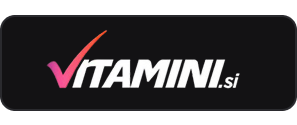
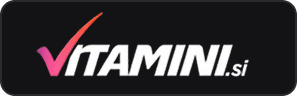
Fix partner card layout: use image aspect ratio, remove redundant card styling
Both PNGs are now 297x96 and render as-is since they include their own
background and rounded corners.

diff --git a/components/PartnerStrip.tsx b/components/PartnerStrip.tsx
@@ -119,8 +119,6 @@ const styles = StyleSheet.create({
   },
   card: {
     flex: 1,
-    borderRadius: 12,
-    overflow: 'hidden',
   },
   iconContainer: {
     width: 40,
@@ -141,6 +139,6 @@ const styles = StyleSheet.create({
   },
   logoImage: {
     width: '100%',
-    height: 60,
+    aspectRatio: 297 / 96,
   },
 });
